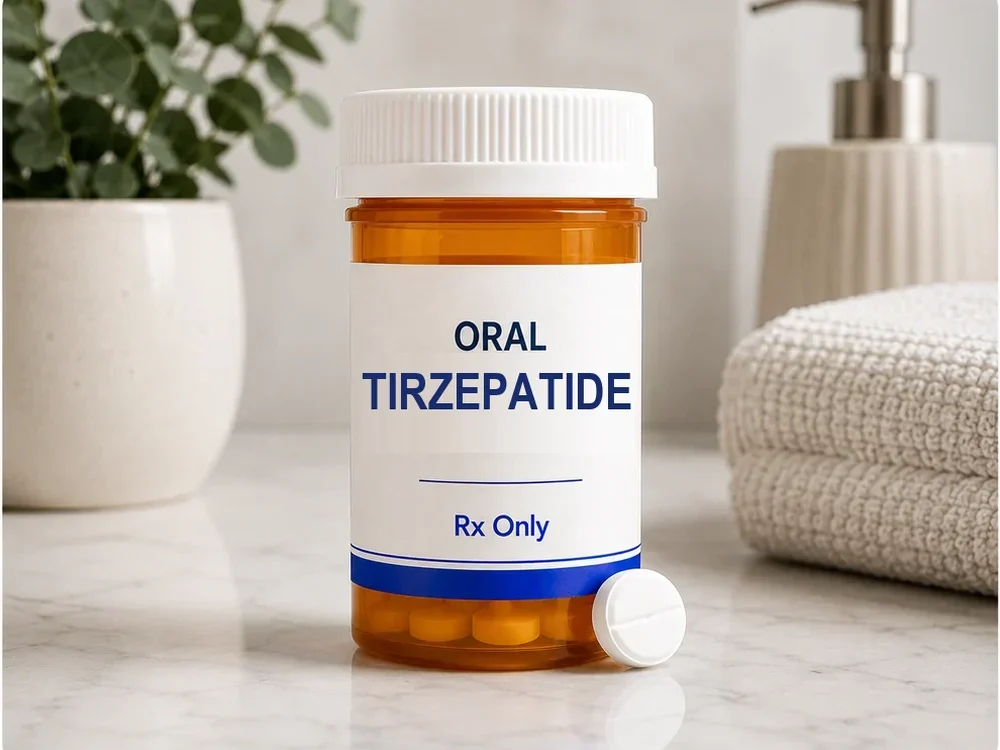
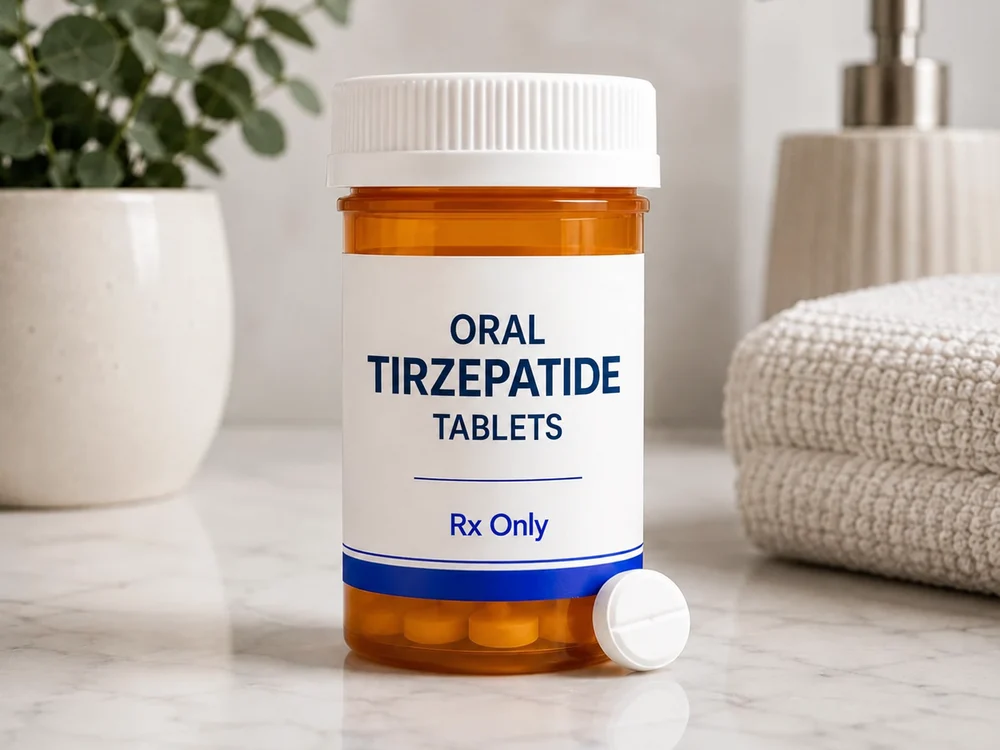
feat(site): use the real Oral Tirzepatide bottle photo
Replaces the relabelled copy of the oral semaglutide shot with the supplied
"Oral Tirzepatide Tablets" photo. The label settles the form, so the card now
says Oral Tablet and the row note says "oral tablet".

diff --git a/wellpeps-site/src/data/weight.ts b/wellpeps-site/src/data/weight.ts
@@ -158,7 +158,7 @@ export const weightProducts: PillProduct[] = [
     name: 'Oral Tirzepatide',
     medication: 'tirzepatide',
     image: '/images/weight/product-oral-tirzepatide.webp',
-    alt: 'Oral tirzepatide prescription bottle',
+    alt: 'Oral tirzepatide tablets',
     benefits: [
       { label: 'Weight Loss', icon: 'trending-down' },
       { label: 'Appetite Control', icon: 'utensils' },
@@ -166,7 +166,7 @@ export const weightProducts: PillProduct[] = [
       { label: 'Convenience', icon: 'clock' },
     ],
     description: 'Oral dual GIP/GLP-1 option—a needle-free alternative.',
-    delivery: { label: 'Oral Medication', icon: 'pill' },
+    delivery: { label: 'Oral Tablet', icon: 'pill' },
     priceUnit: '/month',
   },
 ];
@@ -175,7 +175,7 @@ export const weightProducts: PillProduct[] = [
  *  first question is which medication, then injection or oral. */
 export const weightProductGroups: { medication: PillProduct['medication']; title: string; note: string }[] = [
   { medication: 'semaglutide', title: 'Semaglutide', note: 'A GLP-1 medication, available as a weekly injection or a daily tablet.' },
-  { medication: 'tirzepatide', title: 'Tirzepatide', note: 'A dual GIP/GLP-1 medication, available as a weekly injection or an oral option.' },
+  { medication: 'tirzepatide', title: 'Tirzepatide', note: 'A dual GIP/GLP-1 medication, available as a weekly injection or an oral tablet.' },
 ];
 
 export interface WeightFaq {
